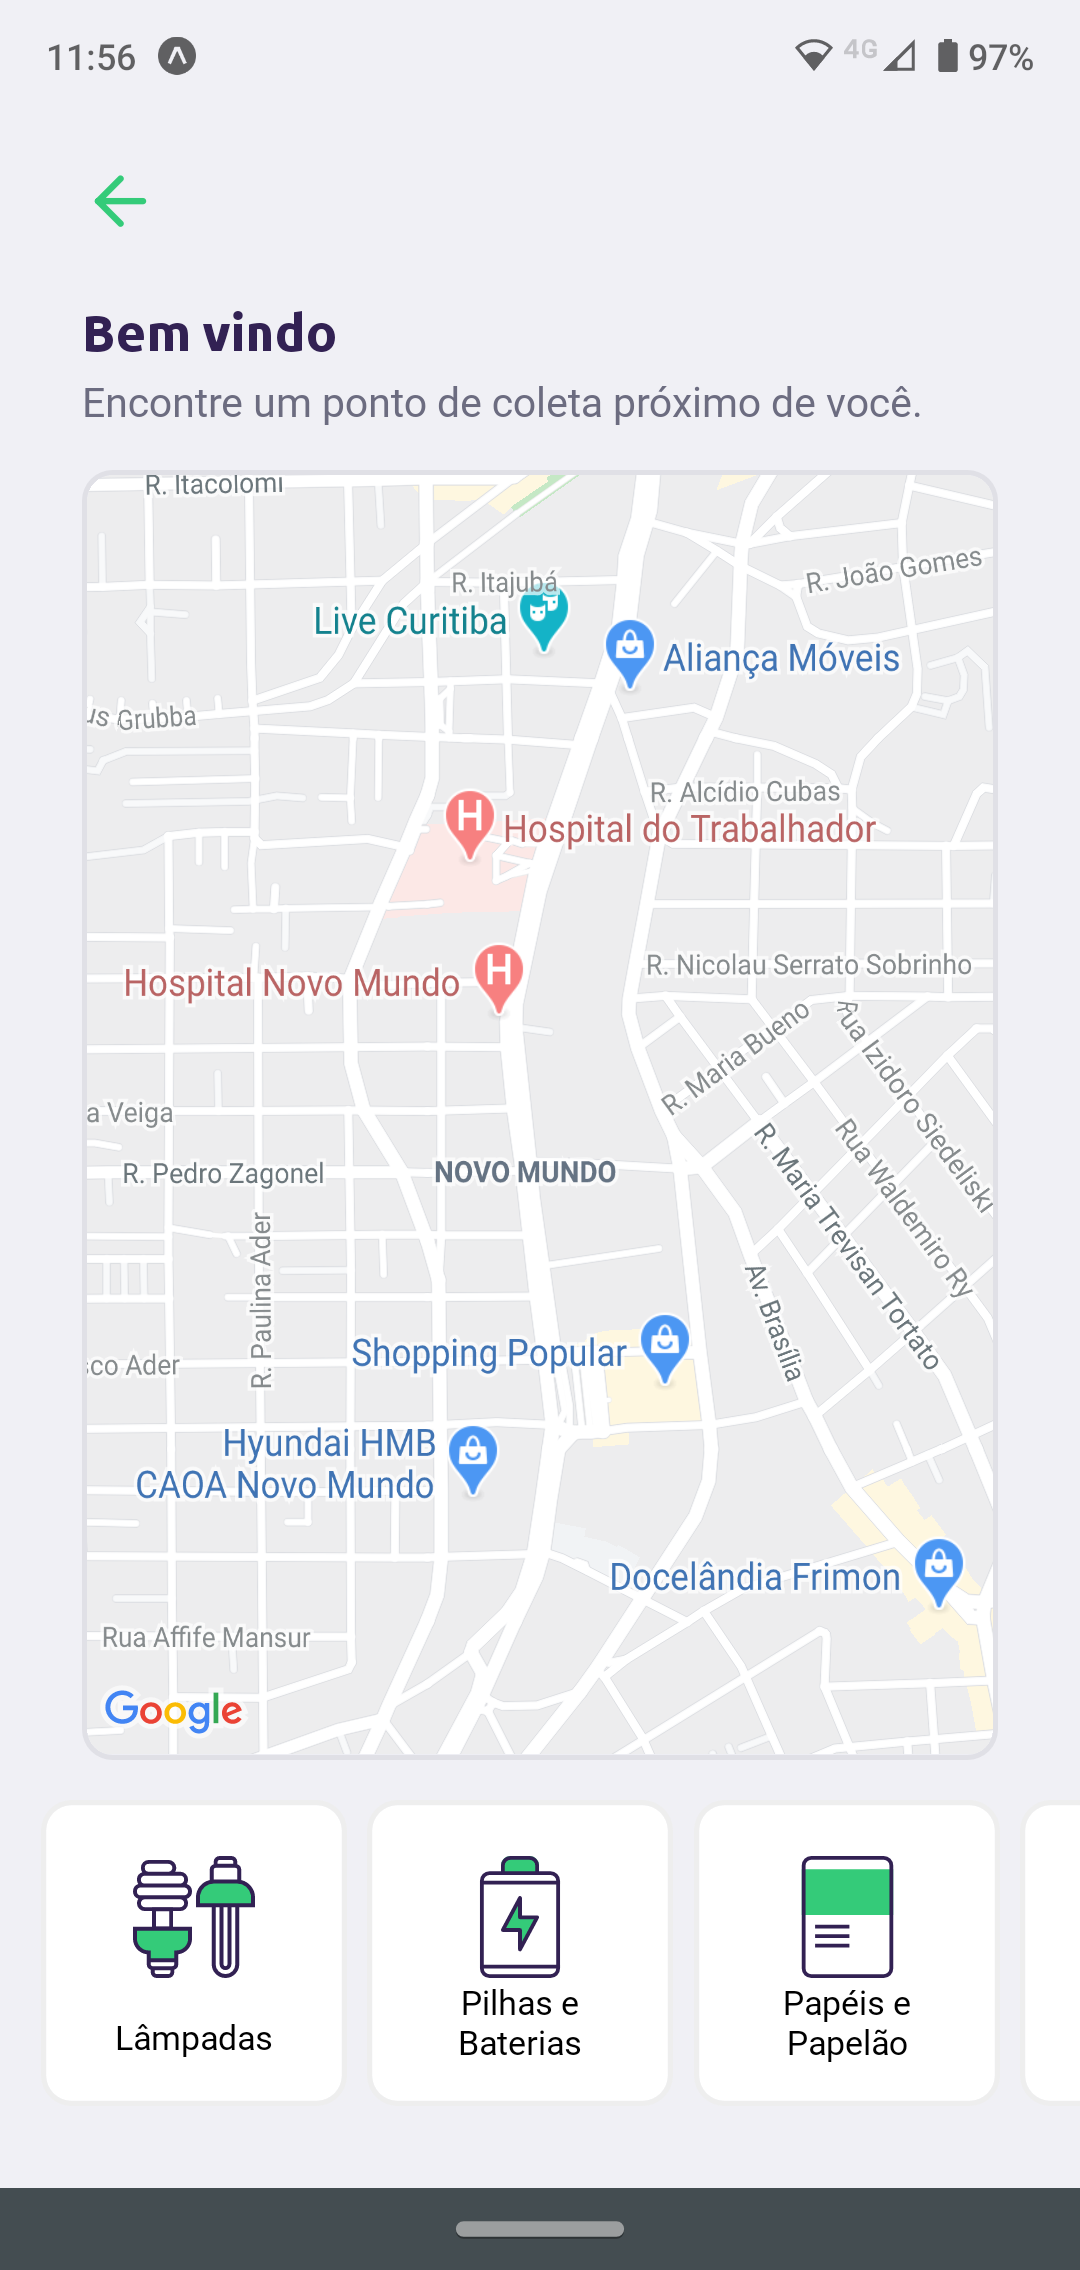
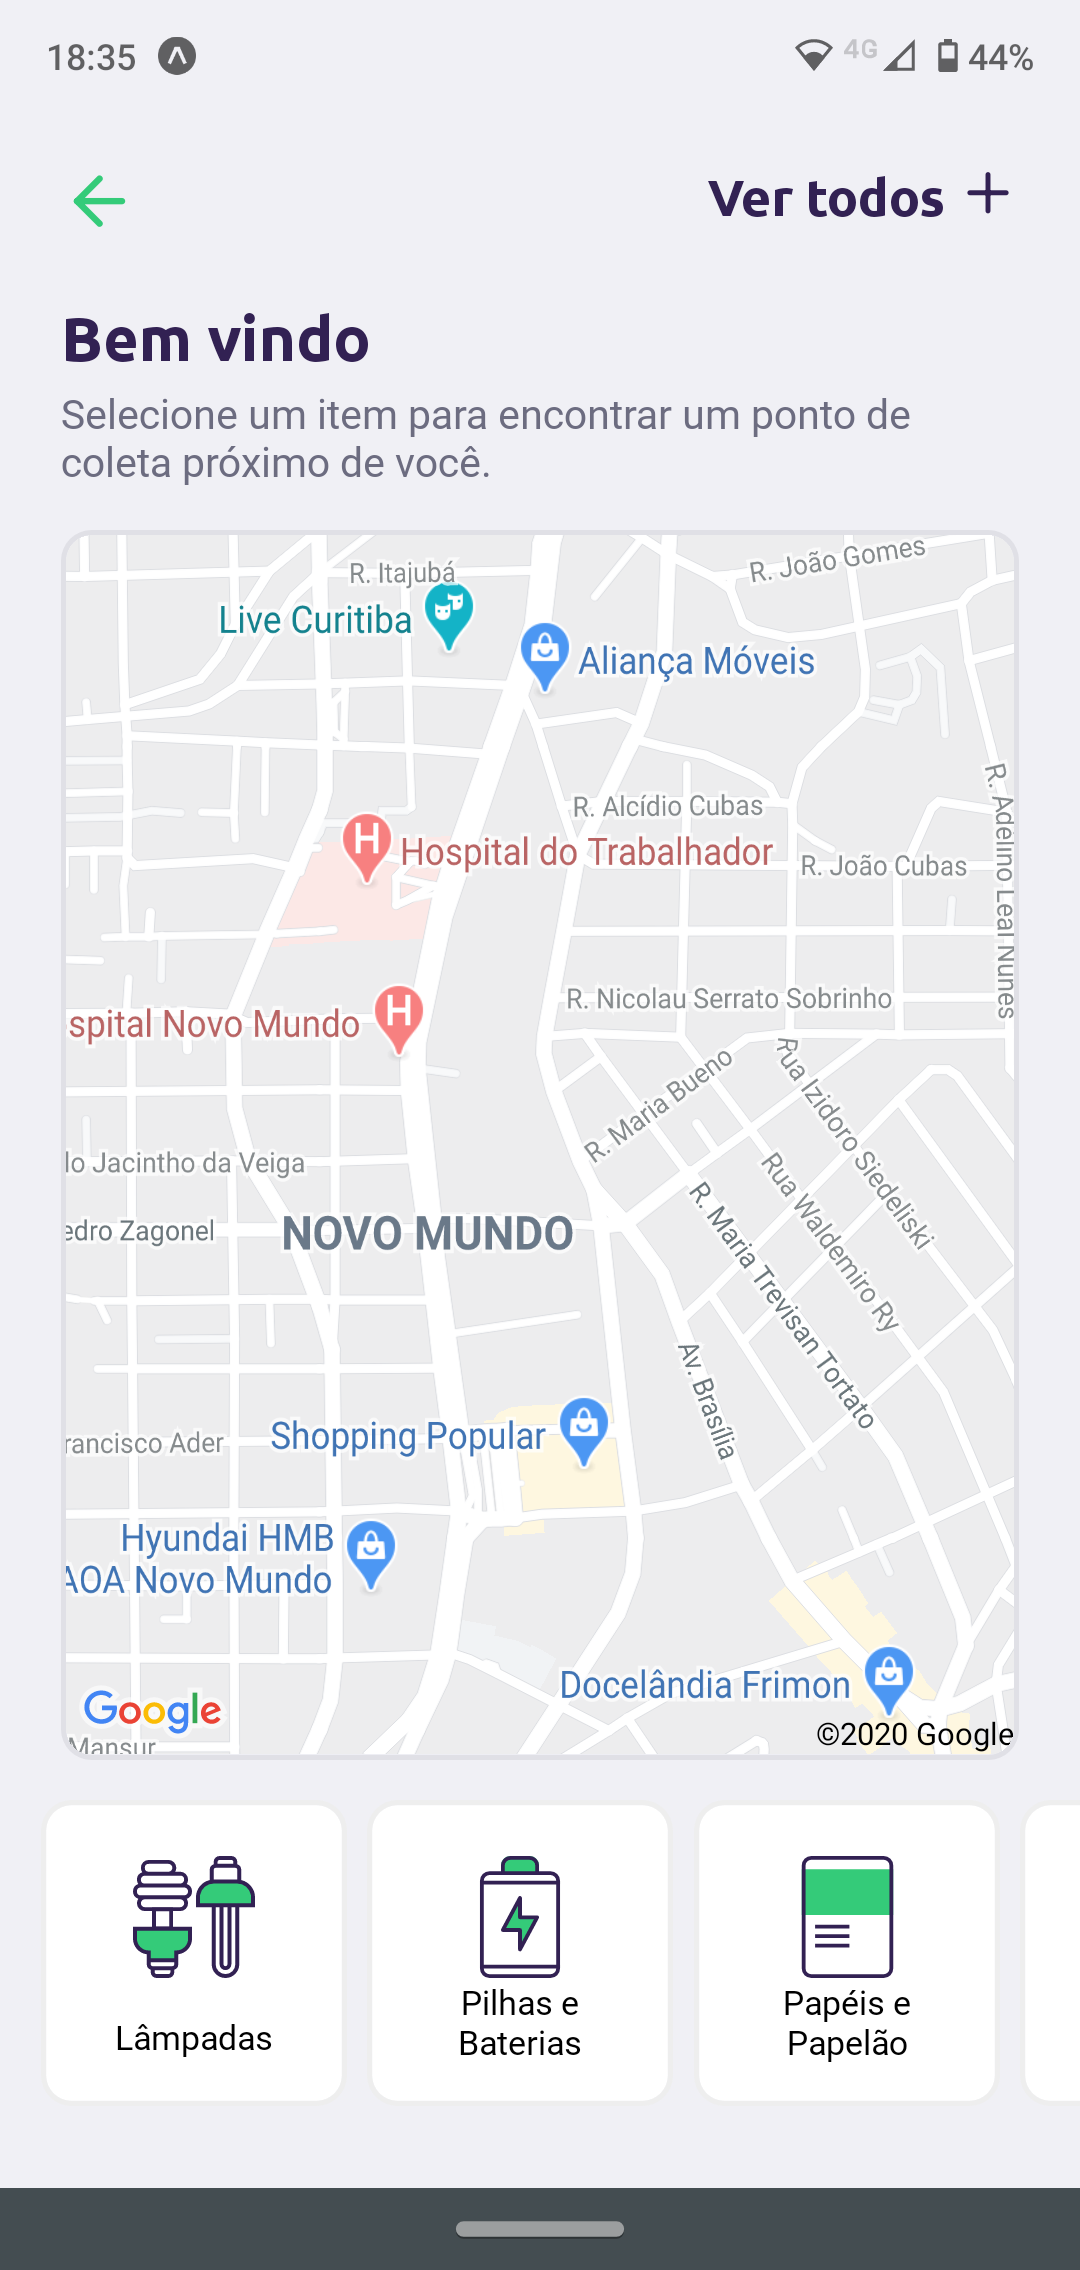
#12 - Cria tela para listagem de pontos

diff --git a/ecoleta/mobile/src/pages/PointIndex/index.tsx b/ecoleta/mobile/src/pages/PointIndex/index.tsx
@@ -1,0 +1,180 @@
+import React, { useState, useEffect } from 'react';
+import { View, StyleSheet, TouchableOpacity, Text, Image, FlatList } from 'react-native';
+import Constants from 'expo-constants';
+import { Feather as Icon } from '@expo/vector-icons';
+import { useNavigation } from '@react-navigation/native';
+import api from '../../services/api';
+
+
+interface Point {
+    id: number;
+    name: string;
+    image: string;
+    image_url: string;
+    items: string;
+    city: string;
+    uf: string;
+}
+
+const PointIndex = () => {
+
+    const navigation = useNavigation();
+    const [points, setPoints] = useState<Point[]>([]);
+
+
+    useEffect(() => {
+        api.get('points').then(response => {
+            setPoints(response.data)
+        });
+    }, []);
+
+
+    function handleNavigateBack() {
+        navigation.goBack();
+    }
+
+    function handleNavigateToDetail(id: number) {
+        navigation.navigate('Detail', {point_id: id});
+    }
+
+
+    return (
+
+        <>
+            <View style={styles.container} >
+                <View>
+                    <TouchableOpacity onPress={handleNavigateBack} >
+                        <Icon name="arrow-left" size={30} color="#34cb79" />
+                    </TouchableOpacity>
+                </View>
+
+                <View style={styles.title}>
+                    <Text style={styles.titleText}>Pontos de coleta</Text>
+
+                    <Text style={styles.titleFilter} onPress={() => {}} >
+                        <Icon name="chevron-down" size={24} />Filtrar
+                    </Text>
+                </View>
+
+                <View style={styles.pointsContainer}> 
+                    <FlatList 
+                        data={points}
+                        renderItem={({item}) => (
+                            
+                            <TouchableOpacity 
+                                key={String(item.id)} 
+                                style={styles.pointsItem} 
+                                activeOpacity={0.7}
+                                onPress={() => {}}
+                            >
+                                <Image 
+                                    style={styles.itemImage}
+                                    source={{
+                                        uri: `${item.image_url}`,
+                                    }}
+                                />
+                                <View style={styles.itemText}>
+                                    <Text style={styles.itemTitle}>{item.name}</Text>
+                                    <Text style={styles.itemItems}>{item.items}</Text>
+                                    <Text style={styles.itemAddress}>{item.city}, {item.uf}</Text>
+                                </View>
+                            </TouchableOpacity>
+                        
+                        )}
+                    />
+                </View>
+            
+            </View>
+        </>
+    );
+};
+
+const styles = StyleSheet.create({
+    container: {
+        flex: 1,
+        paddingHorizontal: 24,
+        paddingTop: 20 + Constants.statusBarHeight,
+    },
+
+    seeAll: {
+        fontSize: 20,
+        fontFamily: 'Ubuntu_700Bold',
+        color: '#322153',
+    },
+
+    title: {
+        flexDirection: 'row',
+        justifyContent: 'space-between',
+    },
+
+    titleText: {
+        fontSize: 24,
+        fontFamily: 'Ubuntu_700Bold',
+        marginTop: 24,
+        color: '#322153',
+    },
+
+    titleFilter: {
+        color: '#6C6C80',
+        fontSize: 16,
+        marginTop: 24,
+        fontFamily: 'Roboto_400Regular',
+    },
+
+    pointsContainer: {
+        flex: 1,
+        width: '100%',
+        marginVertical: 16,
+    },
+
+    pointsItem: {
+        backgroundColor: '#fff',
+        borderWidth: 2,
+        borderColor: '#6C6C8020',
+        height: 120,
+        borderRadius: 12,
+        paddingHorizontal: 8,
+        paddingVertical: 8,
+        flexDirection: 'row',
+        marginBottom: 8,
+    },
+
+    itemImage: {
+        width: 100,
+        height: 100,
+        borderRadius: 12,
+        borderWidth: 1,
+        borderColor: '#6C6C80',
+        marginRight: 8,
+    },
+
+    itemText: {
+        flex: 1,
+        flexDirection: 'column',
+    },
+
+    itemTitle: {
+        fontSize: 20,
+        fontFamily: 'Ubuntu_700Bold',
+        color: '#322153',
+        flex: 1,
+        alignSelf: 'flex-start',
+    },
+
+    itemItems: {
+        color: '#34CB79',
+        fontFamily: 'Roboto_400Regular',
+        fontSize: 16,
+        flex: 1,
+        alignSelf: 'flex-start',
+    },
+
+    itemAddress: {
+        color: '#6C6C80',
+        fontFamily: 'Roboto_400Regular',
+        fontSize: 14,
+        alignSelf: 'flex-start',
+    },    
+});
+
+export default PointIndex;

diff --git a/ecoleta/mobile/src/pages/Points/index.tsx b/ecoleta/mobile/src/pages/Points/index.tsx
@@ -59,10 +59,14 @@ const Points = () => {
     }, []);
 
     useEffect(() => {
+        if ( selectedItems.length === 0 ) {
+            setPoints([])
+            return;
+        }
         api.get('points', {
             params: {
-                city: 'Curitiba',
-                uf: 'PR',
+                // city: 'Curitiba',
+                // uf: 'SP',
                 items: selectedItems
             }
         }).then(response => {
@@ -73,6 +77,10 @@ const Points = () => {
 
     function handleNavigateBack() {
         navigation.goBack();
+    }
+
+    function handleSeeAll() {
+        navigation.navigate('PointIndex');
     }
 
     function handleNavigateToDetail(id: number) {
@@ -95,20 +103,25 @@ const Points = () => {
 
         <>
             <View style={styles.container} >
-                <TouchableOpacity onPress={handleNavigateBack} >
-                    <Icon name="arrow-left" size={30} color="#34cb79" />
-                </TouchableOpacity>
+                <View style={styles.linksContainer}>
+                    <TouchableOpacity onPress={handleNavigateBack} >
+                        <Icon name="arrow-left" size={30} color="#34cb79" />
+                    </TouchableOpacity>
+                    <Text style={styles.seeAll} onPress={handleSeeAll}>
+                        {/* Ver todos<Icon name="chevron-right" size={24} /> */}
+                        {/* Ver todos<Icon name="arrow-up-right" size={24} /> */}
+                        Ver todos <Icon name="plus" size={24} />
+                    </Text>
+                </View>
 
                 <Text style={styles.title}>Bem vindo</Text>
-                <Text style={styles.description}>Encontre um ponto de coleta próximo de você.</Text>
+                <Text style={styles.description}>Selecione um item para encontrar um ponto de coleta próximo de você.</Text>
 
                 <View style={styles.mapContainer}> 
                     { initialPosition[0] !== 0 && (
                         <MapView 
                             style={styles.map} 
                             initialRegion={{
-                                // latitude: -25.476228,
-                                // longitude: -49.292037,
                                 latitude: initialPosition[0],
                                 longitude: initialPosition[1],
                                 latitudeDelta: 0.014,
@@ -170,12 +183,23 @@ const Points = () => {
 const styles = StyleSheet.create({
     container: {
         flex: 1,
-        paddingHorizontal: 32,
+        paddingHorizontal: 24,
         paddingTop: 20 + Constants.statusBarHeight,
     },
 
-    title: {
+    linksContainer: {
+        flexDirection: 'row',
+        justifyContent: 'space-between',
+    },
+
+    seeAll: {
         fontSize: 20,
+        fontFamily: 'Ubuntu_700Bold',
+        color: '#322153',
+    },
+
+    title: {
+        fontSize: 24,
         fontFamily: 'Ubuntu_700Bold',
         marginTop: 24,
         color: '#322153',

diff --git a/ecoleta/web/src/pages/MobileScreens/index.tsx b/ecoleta/web/src/pages/MobileScreens/index.tsx
@@ -2,11 +2,21 @@ import React from 'react';
 import './styles.css';
 import NavHeader from '../../components/NavHeader';
 
-import screean1 from '../../assets/mobile-screens/1-home.png';
-import screean2 from '../../assets/mobile-screens/2-point-search.png';
-import screean3 from '../../assets/mobile-screens/3-point-search.png';
-import screean4 from '../../assets/mobile-screens/4-point-search.png';
-import screean5 from '../../assets/mobile-screens/5-point-detail.png';
+import screen1 from '../../assets/mobile-screens/1-home.png';
+import screen2 from '../../assets/mobile-screens/2-point-search.png';
+import screen3 from '../../assets/mobile-screens/3-point-index.png';
+import screen4 from '../../assets/mobile-screens/4-point-search.png';
+import screen5 from '../../assets/mobile-screens/5-point-search.png';
+import screen6 from '../../assets/mobile-screens/6-point-detail.png';
+
+const screens = [
+    screen1,
+    screen2,
+    screen3,
+    screen4,
+    screen5,
+    screen6
+];
 
 
 const MobileScreens = () => {
@@ -23,21 +33,11 @@ const MobileScreens = () => {
                     <span>Abaixo são apresentadas as telas da versão mobile da aplicação, onde é possível encontrar Pontos de coleta próximos a sua posição geográfica.</span>
 
                     <ul className="screens-grid">
-                        <li className="point-box" >
-                            <img src={screean1} alt="" />
-                        </li>
-                        <li className="point-box" >
-                            <img src={screean2} alt="" />
-                        </li>
-                        <li className="point-box" >
-                            <img src={screean3} alt="" />
-                        </li>
-                        <li className="point-box" >
-                            <img src={screean4} alt="" />
-                        </li>
-                        <li className="point-box" >
-                            <img src={screean5} alt="" />
-                        </li>
+                        {screens.map(screen => (
+                            <li className="point-box" >
+                                <img src={screen} alt="" />
+                            </li>
+                        ))}
                     </ul>
 
                 </main>

diff --git a/ecoleta/mobile/src/routes.tsx b/ecoleta/mobile/src/routes.tsx
@@ -4,6 +4,7 @@ import { createStackNavigator } from '@react-navigation/stack';
 
 import Home from './pages/Home';
 import Points from './pages/Points';
+import PointIndex from './pages/PointIndex';
 import Detail from './pages/Detail';
 
 const AppStack = createStackNavigator();
@@ -23,6 +24,7 @@ const Routes = () => {
             >
                 <AppStack.Screen name="Home" component={Home} />
                 <AppStack.Screen name="Points" component={Points} />
+                <AppStack.Screen name="PointIndex" component={PointIndex} />
                 <AppStack.Screen name="Detail" component={Detail} />
             </AppStack.Navigator>
         </NavigationContainer>
